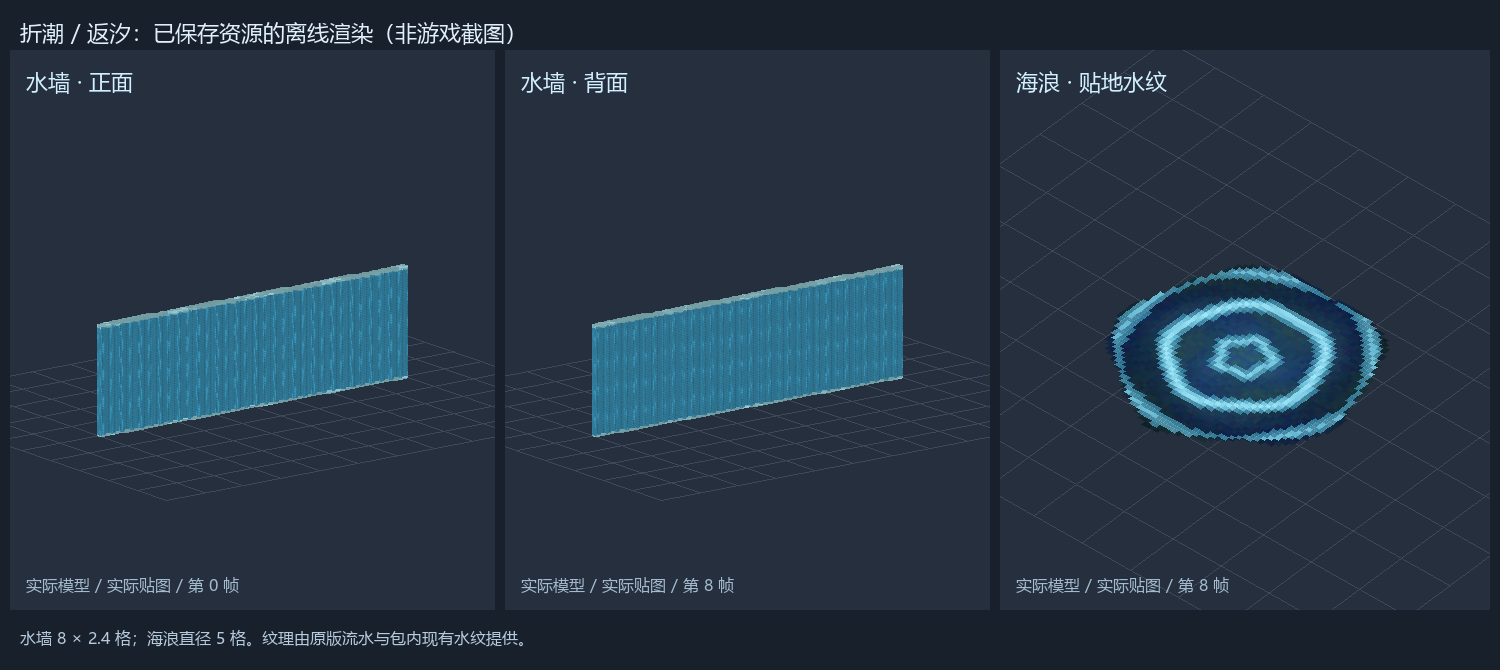
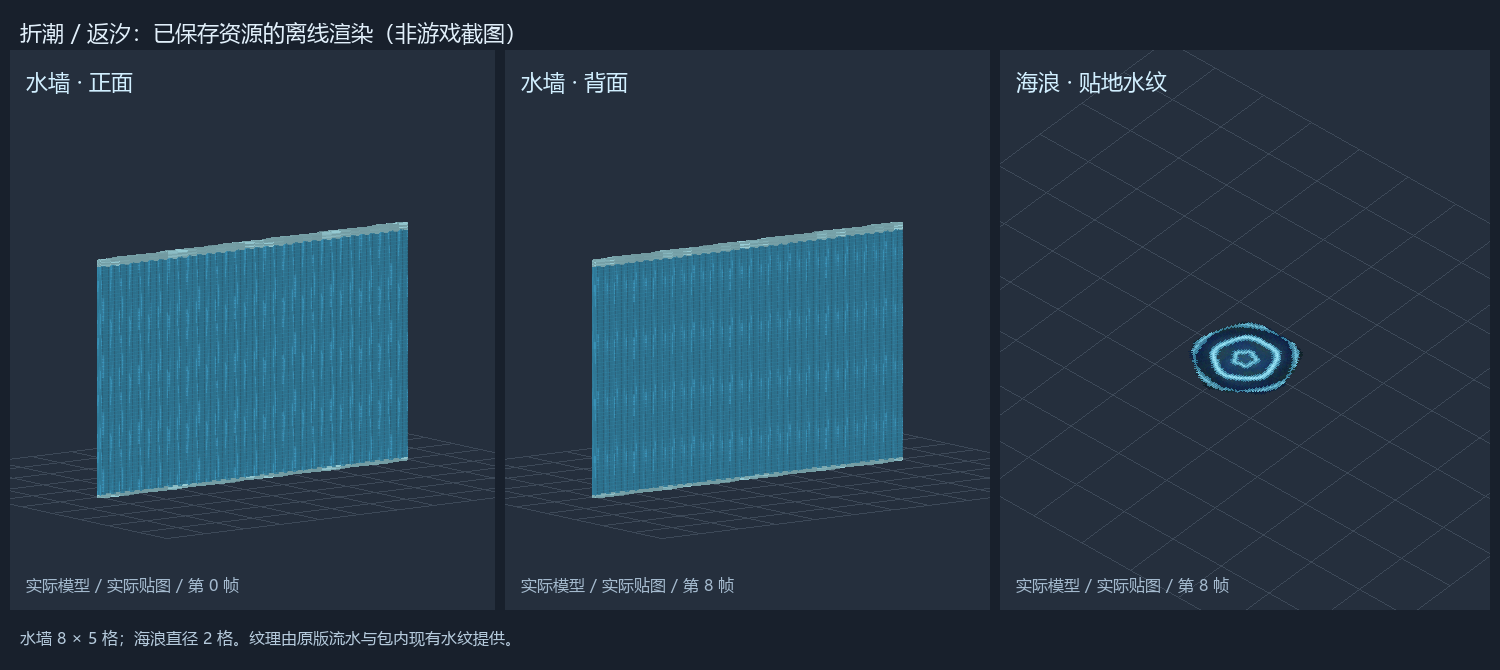
调整水墙至5格高、海浪至2格直径并同步作用边界

diff --git a/模型设计/折潮与返汐_水体表现_20261026/接入与验证说明.md b/模型设计/折潮与返汐_水体表现_20261026/接入与验证说明.md
@@ -1,27 +1,27 @@
 # 折潮水墙与返汐海浪：贴图模型接入（2026-10-26）
 
-原实现确实存在逻辑marker，但水墙只有水滴/气泡粒子，普通海浪与套装扩展海浪也未连接贴图模型。另修复累计耗魔入口仅切换执行者、未切换坐标，导致水墙可能生成在调用原点的问题；生成入口统一定位到触发者脚下。本次补上显示；未修改伤害、范围、消耗、持续时间、归属或触发条件。
+原实现确实存在逻辑marker，但水墙只有水滴/气泡粒子，普通海浪与套装扩展海浪也未连接贴图模型。另修复累计耗魔入口仅切换执行者、未切换坐标，导致水墙可能生成在调用原点的问题；生成入口统一定位到触发者脚下。初次接入补上显示；后续按用户最新要求，水墙改高5格，普通/套装扩展海浪统一直径2格，穿墙检测高度与海浪作用半径同步调整。伤害系数、消耗、持续时间、归属和触发条件沿用原值。
 
 ## 已接入的外观
 
-- 水墙：8格宽、2.4格高，薄水幕厚0.125格。18个元素、46个面；正背面及侧沿可见，使用原版32帧流水纹理和显式全不透明ARGB蓝色/浅色水沫着色。贴图本身保留原有透明度180/255，模型每面正常采样。
-- 海浪：直径5格，复用完整版已有的深色海面和16帧水纹。2个元素、4个面，正背双面；模型面位于实体脚部上方约0.03～0.06格，额外0～0.031格的分层缓解重叠闪烁。普通5秒海浪与套装扩展海浪均接入。
+- 水墙：8格宽、5格高，薄水幕厚0.125格。18个元素、46个面；正背面及侧沿可见，使用原版32帧流水纹理和显式全不透明ARGB蓝色/浅色水沫着色。贴图本身保留原有透明度180/255，模型每面正常采样。
+- 海浪：直径2格，复用完整版已有的深色海面和16帧水纹。2个元素、4个面，正背双面；模型面位于实体脚部上方约0.013～0.025格，额外0～0.031格的分层缓解重叠闪烁。普通5秒海浪与套装扩展海浪均接入。
 - 每面墙或每片浪保留原来的逻辑marker，增加1个静态item_display。纹理动画由客户端图集播放，不按动画帧生成实体。
 
 ## 可编辑来源
 
 同目录 `水墙_贴图模型.bbmodel` 与 `海浪_贴图模型.bbmodel` 提供完整几何、实际UV、内嵌原始纹理和整体Display调整分组。水墙在游戏中的蓝色由 `items/tide_wall.json` 的常量水色提供，BB里的原版纹理本身是灰度图。纹理循环由游戏资源定义驱动，不属于骨骼动画。
 
-游戏资源直接维护 `sweetdream_rp_完整版/` 的 `items/tide_wall.json`、`items/ebb_wave.json` 及对应 `models/item/` 文件。模型使用(8,8,8)为渲染原点；运行时墙缩放为(8,2.4,1)，浪缩放为(5,5,5)。`item_display:"fixed"` 对应两模型的统一 `display.fixed` 入口。后续手改工程后导出相应模型，不重跑一次性初建脚本覆盖手改。
+游戏资源直接维护 `sweetdream_rp_完整版/` 的 `items/tide_wall.json`、`items/ebb_wave.json` 及对应 `models/item/` 文件。模型使用(8,8,8)为渲染原点；运行时墙缩放为(8,5,1)，浪缩放为(2,2,2)。`item_display:"fixed"` 对应两模型的统一 `display.fixed` 入口。后续手改工程后导出相应模型，不重跑一次性初建脚本覆盖手改。
 
 ## 生命周期与验证
 
 显示实体使用独立标签，不计入水墙/海浪数量，不进入伤害选择器；继承本体朝向，通过内部唯一编号关联。逻辑本体结束时立即删除自己的显示实体，并保留随加载暂停的显示兜底寿命。已加载效果重载清理，避免孤立模型留场。
 
-独立原版1.21.5服27项检查通过：生成、尺寸、90度朝向、原始marker归属、普通与扩展海浪、结束只清自己的显示、准确到期及重载清理；另复现旧入口原点生成错误，验证新入口与显示模型都在触发者位置。官方命令解析与资源模型/UV/透明度检查通过。`实际模型预览.png` 从保存的模型、贴图、着色和动画帧离线渲染，不是游戏截图；未宣称已做用户客户端画面/FPS验收。
+独立原版1.21.5服37项检查通过：生成、尺寸、90度朝向、原始marker归属、普通与扩展海浪、结束只清自己的显示、准确到期及重载清理；另复现旧入口原点生成错误，验证新入口与显示模型都在触发者位置。新增验证墙内4.5格、顶部5格、上方5.25格及墙底下方跨越；验证普通/扩展海浪半径1格内外边界。150条本轮变更命令通过官方解析，全包检查0问题。`实际模型预览.png` 从保存的模型、贴图、着色和动画帧离线渲染，不是游戏截图；未宣称已做用户客户端画面/FPS验收。
 
 ## 使用
 
-测试包体和当前启用的 `resourcepacks/sweetdream_rp_完整版/` 按本轮清单备份后同步；根目录完整版ZIP仅增补本轮4个资源文件。进入游戏先 `/reload`，再按 `F3+T` 重载资源包，随后重新触发折潮水墙/返汐海浪。`/reload`本身会清理已加载的旧效果，因此需要重新触发。
+测试包体和当前启用的 `resourcepacks/sweetdream_rp_完整版/` 按本轮清单备份后同步；初次接入为根目录完整版ZIP增补4个资源；本次尺寸修订仅同步2个模型的尺寸说明，运行时缩放由数据包控制。进入游戏先 `/reload`，再按 `F3+T` 重载资源包，随后重新触发折潮水墙/返汐海浪。`/reload`本身会清理已加载的旧效果，因此需要重新触发。
 
-过程证据、源码与目标旧文件备份、哈希与部署回执：`.workbuddy/fix_water_visuals_20261026/`。
+过程证据、源码与目标旧文件备份、哈希与部署回执：`.workbuddy/fix_water_visuals_20261026/`；本次尺寸修订记录在 `.workbuddy/resize_water_20261026/`。

diff --git a/codex云端/新装备审查与观测镜补全_2026-10-25.md b/codex云端/新装备审查与观测镜补全_2026-10-25.md
@@ -4,9 +4,9 @@
 
 ## 10月26日：水墙与海浪可视化补全
 
-原先两者有逻辑判定，但没有接贴图模型，表现仅为稀疏粒子。本次为折潮水墙接入8×2.4格双面流水水幕，为返汐普通/套装海浪接入直径5格的贴地动画水纹。保留逻辑marker及其归属，每个效果增加1个显示实体；效果结束关联清理，不把显示实体算成额外水墙或海浪。同时修复累计耗魔入口未定位到触发者、可能在调用原点生成水墙的问题；生成入口统一定位到触发者脚下。没有改动技能数值与判定。
+原先两者有逻辑判定，但没有接贴图模型，表现仅为稀疏粒子。本次为折潮水墙接入8×5格双面流水水幕，为返汐普通/套装海浪接入直径2格的贴地动画水纹。保留逻辑marker及其归属，每个效果增加1个显示实体；效果结束关联清理，不把显示实体算成额外水墙或海浪。同时修复累计耗魔入口未定位到触发者、可能在调用原点生成水墙的问题；生成入口统一定位到触发者脚下。尺寸按用户最新要求修订：水墙穿越检测上限为5格，普通/套装扩展海浪全部作用检查统一半径1格；粒子与模型尺寸同步。伤害系数、消耗、持续时间与资源规则保留。
 
-原版1.21.5服27项生成、方向、尺寸、归属、独立到期与重载清理检查通过。可编辑BB工程及实际资源离线预览见 `模型设计/折潮与返汐_水体表现_20261026/`；预览不是游戏截图。已同步测试包体及当前启用的完整版资源包，根ZIP补入4个新资源。进入后 `/reload`，再 `F3+T`，重新触发效果。客户端画面/FPS未实测。
+原版1.21.5服37项检查通过，含高处穿墙、超出墙顶/低于墙底不触发，以及普通/扩展海浪半径边界；150条本轮命令解析0失败、全包0问题。可编辑BB工程及实际资源离线预览见 `模型设计/折潮与返汐_水体表现_20261026/`；预览不是游戏截图。已同步测试包体及当前启用的完整版资源包，根ZIP补入4个新资源。进入后 `/reload`，再 `F3+T`，重新触发效果。客户端画面/FPS未实测。
 
 ## 10月26日玩家反馈续修：回光、白光、菜单与伤害飘字
 

diff --git a/新装备审查与观测镜补全_2026-10-25.md b/新装备审查与观测镜补全_2026-10-25.md
@@ -4,9 +4,9 @@
 
 ## 10月26日：水墙与海浪可视化补全
 
-原先两者有逻辑判定，但没有接贴图模型，表现仅为稀疏粒子。本次为折潮水墙接入8×2.4格双面流水水幕，为返汐普通/套装海浪接入直径5格的贴地动画水纹。保留逻辑marker及其归属，每个效果增加1个显示实体；效果结束关联清理，不把显示实体算成额外水墙或海浪。同时修复累计耗魔入口未定位到触发者、可能在调用原点生成水墙的问题；生成入口统一定位到触发者脚下。没有改动技能数值与判定。
+原先两者有逻辑判定，但没有接贴图模型，表现仅为稀疏粒子。本次为折潮水墙接入8×5格双面流水水幕，为返汐普通/套装海浪接入直径2格的贴地动画水纹。保留逻辑marker及其归属，每个效果增加1个显示实体；效果结束关联清理，不把显示实体算成额外水墙或海浪。同时修复累计耗魔入口未定位到触发者、可能在调用原点生成水墙的问题；生成入口统一定位到触发者脚下。尺寸按用户最新要求修订：水墙穿越检测上限为5格，普通/套装扩展海浪全部作用检查统一半径1格；粒子与模型尺寸同步。伤害系数、消耗、持续时间与资源规则保留。
 
-原版1.21.5服27项生成、方向、尺寸、归属、独立到期与重载清理检查通过。可编辑BB工程及实际资源离线预览见 `模型设计/折潮与返汐_水体表现_20261026/`；预览不是游戏截图。已同步测试包体及当前启用的完整版资源包，根ZIP补入4个新资源。进入后 `/reload`，再 `F3+T`，重新触发效果。客户端画面/FPS未实测。
+原版1.21.5服37项检查通过，含高处穿墙、超出墙顶/低于墙底不触发，以及普通/扩展海浪半径边界；150条本轮命令解析0失败、全包0问题。可编辑BB工程及实际资源离线预览见 `模型设计/折潮与返汐_水体表现_20261026/`；预览不是游戏截图。已同步测试包体及当前启用的完整版资源包，根ZIP补入4个新资源。进入后 `/reload`，再 `F3+T`，重新触发效果。客户端画面/FPS未实测。
 
 ## 10月26日玩家反馈续修：回光、白光、菜单与伤害飘字
 
